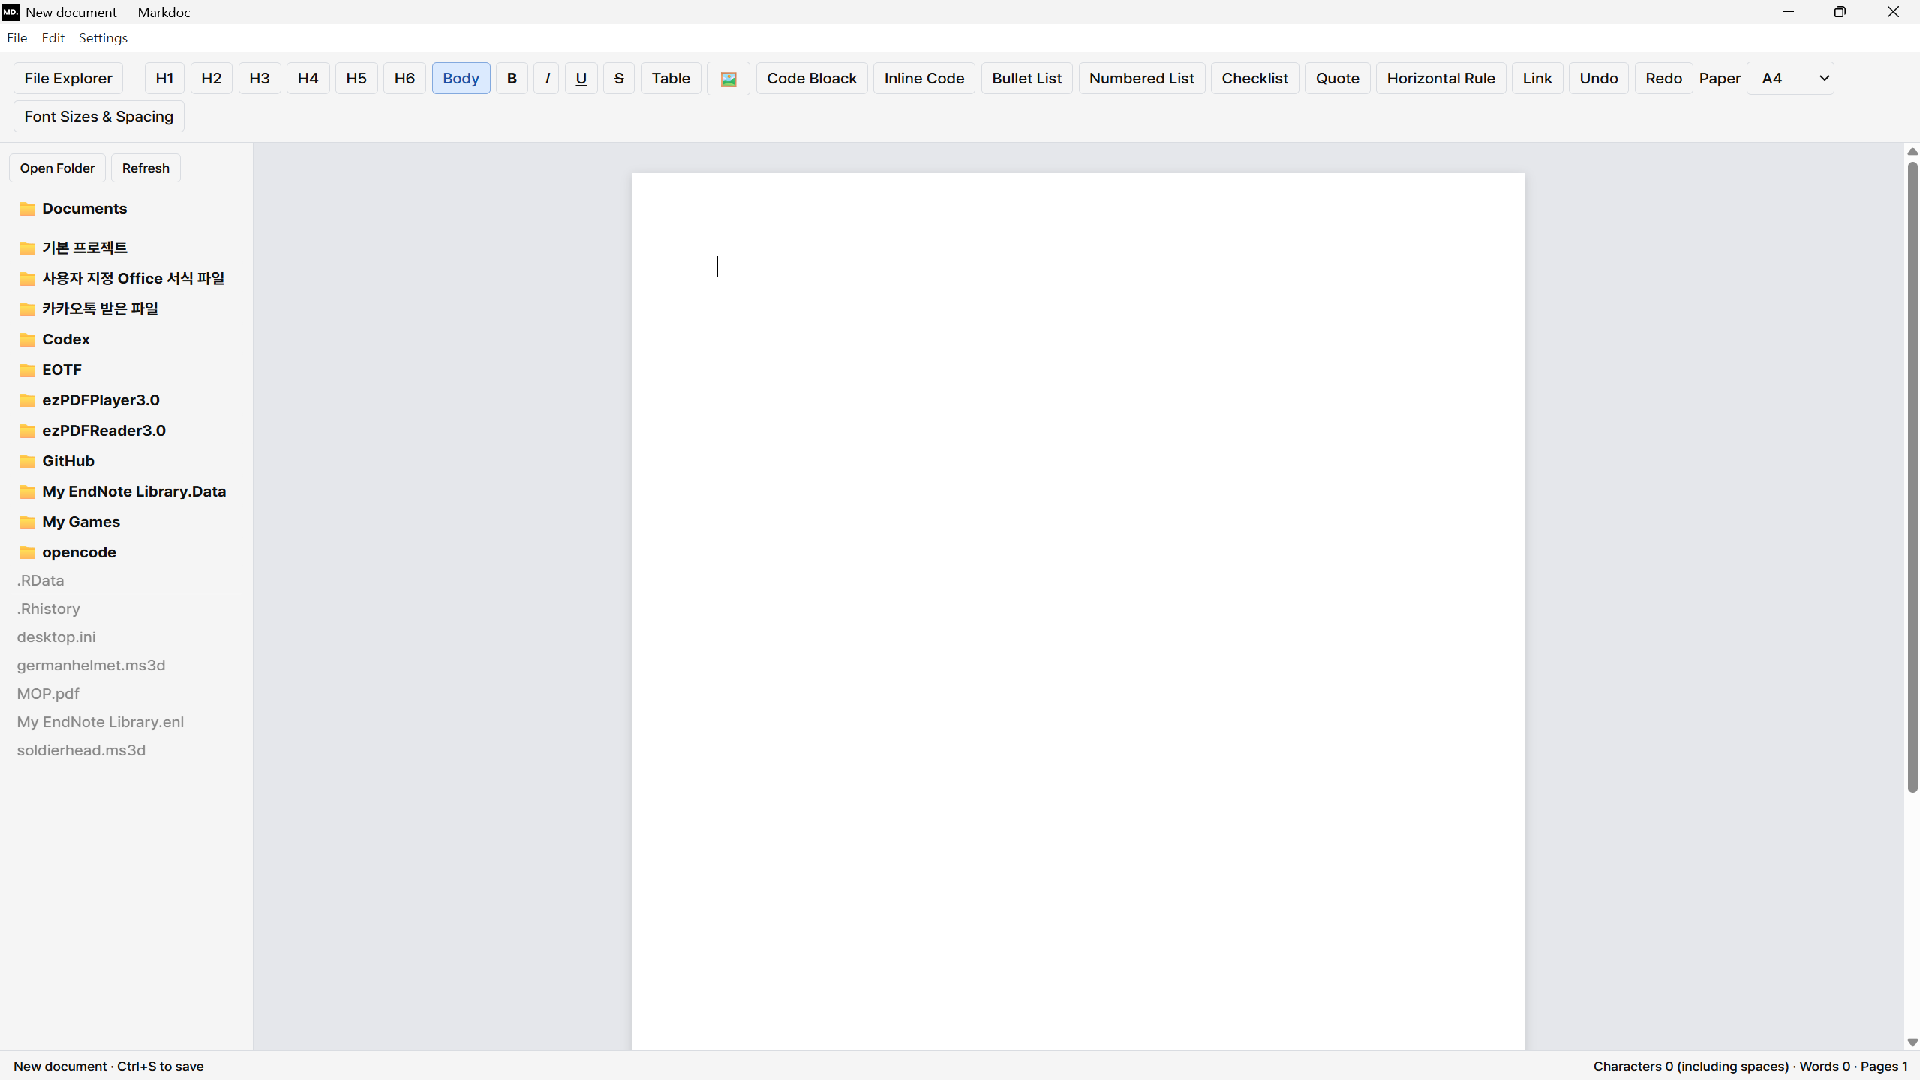
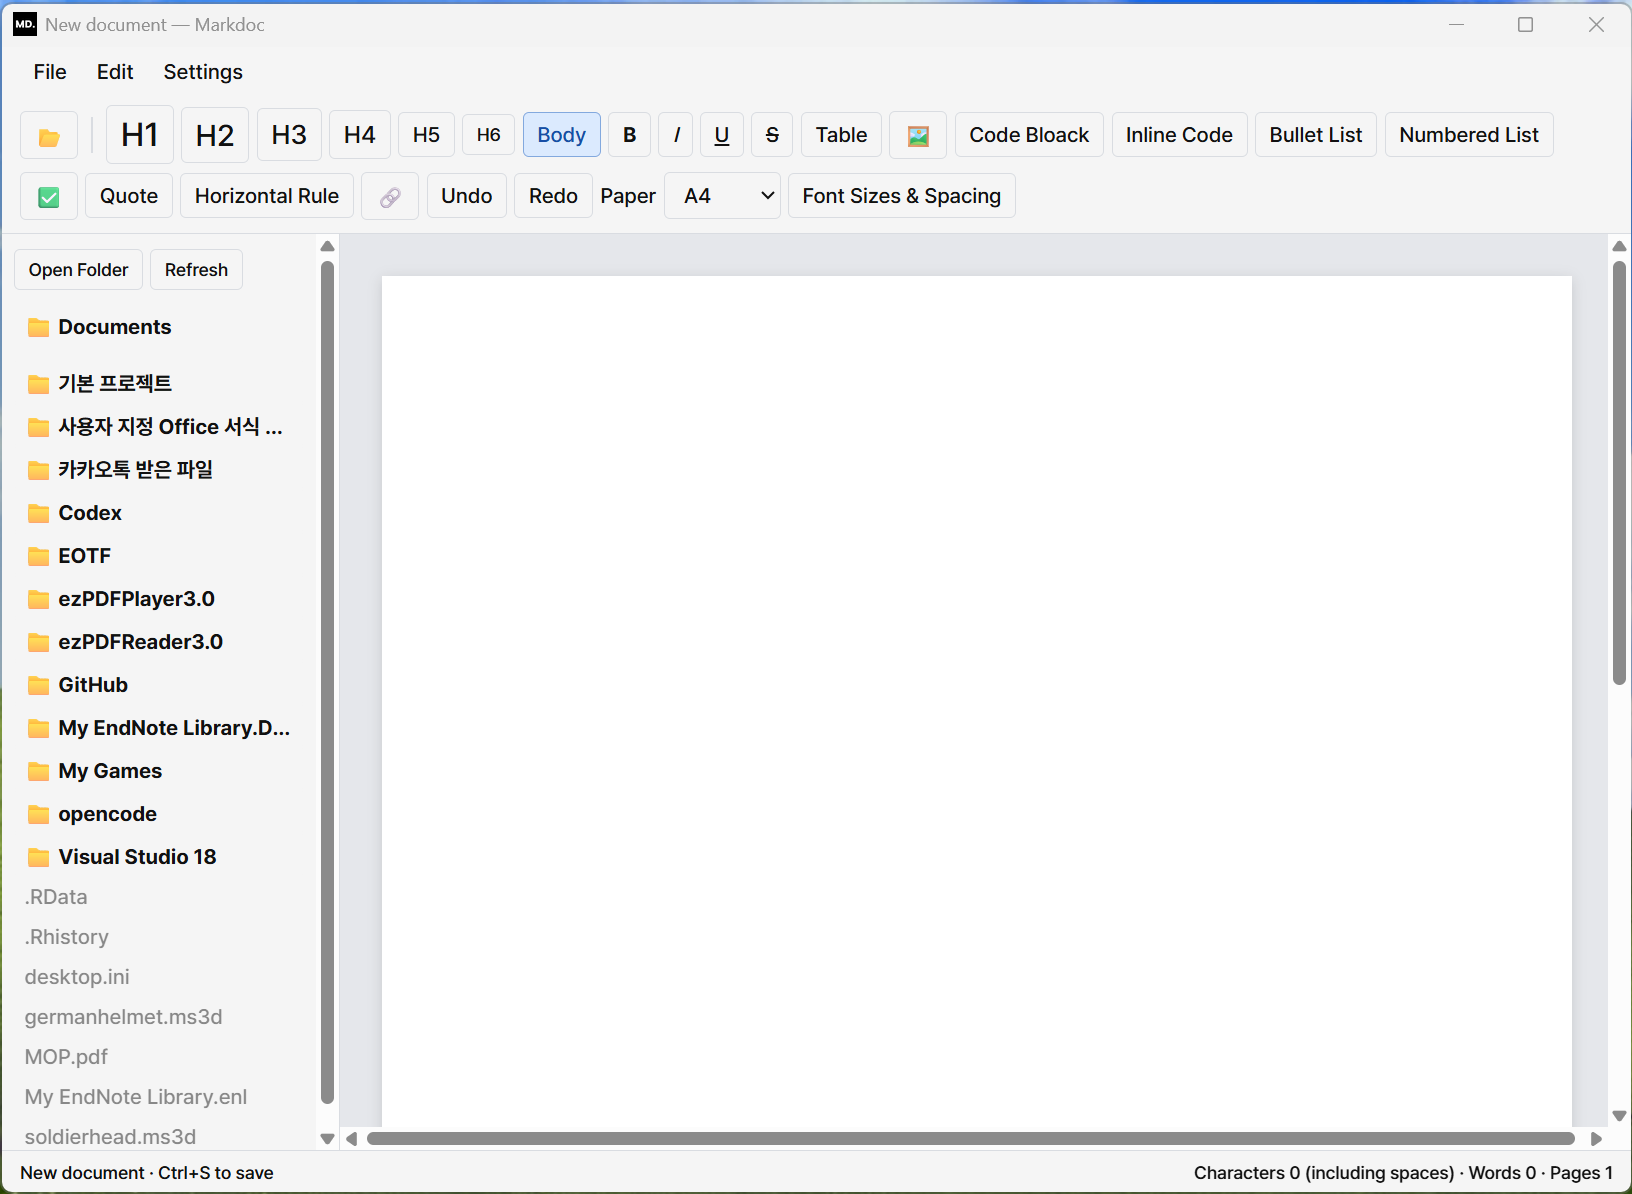
26-10-23-10-52

Changed region(s): [[0.0, 0.0, 1.0, 1.0], [0.125, 0.1528, 0.2188, 0.1833]]

diff --git a/src/renderer.js b/src/renderer.js
@@ -16,7 +16,7 @@ const api = window.markdoc;
 let prefs = { language: 'ko', paper: 'A4', autosave: true, explorerVisible: true, typography: { body: 12, h1: 26, h2: 22, h3: 19, h4: 17, h5: 15, h6: 13, lineHeight: 1.7 } };
 const t = (key, values = {}) => (translations[prefs.language]?.[key] || key).replace(/\{(\w+)\}/g, (match, name) => values[name] ?? match);
 const uiText = [], uiAttributes = [];
-for (const region of document.querySelectorAll('#toolbar,#explorer,#typography-dialog,#table-dialog,#link-dialog,#image-dialog')) {
+for (const region of document.querySelectorAll('#menubar,#toolbar,#explorer,#typography-dialog,#table-dialog,#link-dialog,#image-dialog')) {
   const walker = document.createTreeWalker(region, NodeFilter.SHOW_TEXT);
   let node;
   while ((node = walker.nextNode())) {
@@ -39,6 +39,23 @@ function translateUI() {
 let baseURL = new URL('../', location.href).href;
 let loading = false, received = false, hasEdits = false, pageCount = 1, explorerRoot, currentPath;
 const status = document.querySelector('#status');
+for (const button of document.querySelectorAll('[data-menu]')) {
+  button.addEventListener('click', () => {
+    const rect = button.getBoundingClientRect();
+    api.action('show-menu', { index: Number(button.dataset.menu), x: Math.round(rect.left), y: Math.round(rect.bottom) });
+  });
+  button.addEventListener('keydown', event => {
+    if (!['ArrowLeft', 'ArrowRight'].includes(event.key)) return;
+    event.preventDefault();
+    const index = (Number(button.dataset.menu) + (event.key === 'ArrowRight' ? 1 : 2)) % 3;
+    document.querySelector(`[data-menu="${index}"]`).focus();
+  });
+}
+document.addEventListener('keydown', event => {
+  if (event.key === 'F10' && !event.shiftKey) {
+    event.preventDefault(); document.querySelector('[data-menu="0"]').focus();
+  }
+});
 const surface = document.querySelector('#document-surface');
 const sheets = document.querySelector('#page-sheets');
 const pageMasks = document.querySelector('#page-masks');
@@ -206,7 +223,7 @@ async function command(name) {
     } else if (name === 'link') {
       document.querySelector('#link-url').value = editor.getAttributes('link').href || '';
       if (await modal('#link-dialog') === 'insert') editor.chain().focus().extendMarkRange('link').setLink({ href: document.querySelector('#link-url').value }).run();
-    } else if (['pdf', 'preview-print', 'print'].includes(name)) {
+    } else if (['pdf', 'print'].includes(name)) {
       const copy = editor.view.dom.cloneNode(true);
       copy.querySelectorAll('.page-break,.image-resize-handle').forEach(node => node.remove());
       await api.action(name, { html: copy.innerHTML });

diff --git a/index.html b/index.html
@@ -7,8 +7,13 @@
   <title>Markdoc</title>
 </head>
 <body>
+  <nav id="menubar" role="menubar" aria-label="메뉴 모음">
+    <button role="menuitem" aria-haspopup="menu" data-menu="0">파일</button>
+    <button role="menuitem" aria-haspopup="menu" data-menu="1">편집</button>
+    <button role="menuitem" aria-haspopup="menu" data-menu="2">설정</button>
+  </nav>
   <header id="toolbar" aria-label="문서 서식 도구 모음">
-    <button data-action="explorer" aria-label="파일 탐색기 열기/닫기">파일 탐색기</button>
+    <button data-action="explorer" aria-label="파일 탐색기 열기/닫기" title="파일 탐색기 열기/닫기">📂</button>
     <span class="separator"></span>
     <button data-action="h1">H1</button><button data-action="h2">H2</button><button data-action="h3">H3</button><button data-action="h4">H4</button><button data-action="h5">H5</button><button data-action="h6">H6</button>
     <button data-action="paragraph">본문</button>
@@ -20,8 +25,8 @@
     <span id="table-tools" hidden><button data-action="addRowAfter">행 추가</button><button data-action="addColumnAfter">열 추가</button><button data-action="deleteRow">행 삭제</button><button data-action="deleteColumn">열 삭제</button><button data-action="deleteTable">표 삭제</button></span>
     <button data-action="image" title="이미지 삽입" aria-label="이미지 삽입">🖼</button>
     <button data-action="codeblock">Code Bloack</button><button data-action="code">Inline Code</button>
-    <button data-action="bulletList">불릿</button><button data-action="orderedList">번호 목록</button><button data-action="taskList">체크 목록</button>
-    <button data-action="blockquote">인용</button><button data-action="horizontalRule">구분선</button><button data-action="link">링크</button>
+    <button data-action="bulletList">불릿</button><button data-action="orderedList">번호 목록</button><button data-action="taskList" aria-label="체크 목록" title="체크 목록">✅</button>
+    <button data-action="blockquote">인용</button><button data-action="horizontalRule">구분선</button><button data-action="link" aria-label="링크" title="링크">🔗</button>
     <button data-action="undo">되돌리기</button><button data-action="redo">다시 실행</button>
     <label>용지 <select id="paper"><option>A4</option><option>Letter</option></select></label>
     <button data-action="typography">글자 크기·행간</button>

diff --git a/src/style.css b/src/style.css
@@ -18,3 +18,16 @@ dialog{border:1px solid var(--border);border-radius:9px;padding:24px;max-width:4
 #page-masks{position:absolute;inset:0;pointer-events:none;user-select:none;z-index:2}
 .page-margin-mask{position:absolute;left:0;width:var(--page-width);background:linear-gradient(to bottom,#fff 0 var(--page-margin),var(--desk) var(--page-margin) calc(var(--page-margin) + 24px),#fff calc(var(--page-margin) + 24px) 100%)}
 .page-number{z-index:3}
+#toolbar [data-action=h1]{font-size:22px}#toolbar [data-action=h2]{font-size:20px}#toolbar [data-action=h3]{font-size:18px}#toolbar [data-action=h4]{font-size:16px}#toolbar [data-action=h5]{font-size:14px}#toolbar [data-action=h6]{font-size:12px}
+#menubar{display:flex;flex:none;gap:2px;padding:3px 12px 0;background:var(--chrome);color:var(--chrome-text)}
+#menubar button{border:0;background:transparent;padding:5px 9px;border-radius:3px}
+#menubar button:hover,#menubar button:focus-visible{background:var(--desk);filter:none}
+#toolbar{background:var(--chrome)}
+:root{--paper:#fff;--ink:#000}
+:root[data-theme=dark]{--paper:#242424;--ink:#fff}
+.page-sheet{background:var(--paper)}
+#document-surface,.document-body{color:var(--ink);color-scheme:inherit;caret-color:var(--ink)}
+.page-margin-mask{background:linear-gradient(to bottom,var(--paper) 0 var(--page-margin),var(--desk) var(--page-margin) calc(var(--page-margin) + 24px),var(--paper) calc(var(--page-margin) + 24px) 100%)}
+:root[data-theme=dark] .document-body pre,:root[data-theme=dark] .document-body code,:root[data-theme=dark] .document-body th{background:#252525}
+:root[data-theme=dark] .document-body a{color:#9ecbff}
+:root[data-theme=dark] .selectedCell{background:#29486e}
